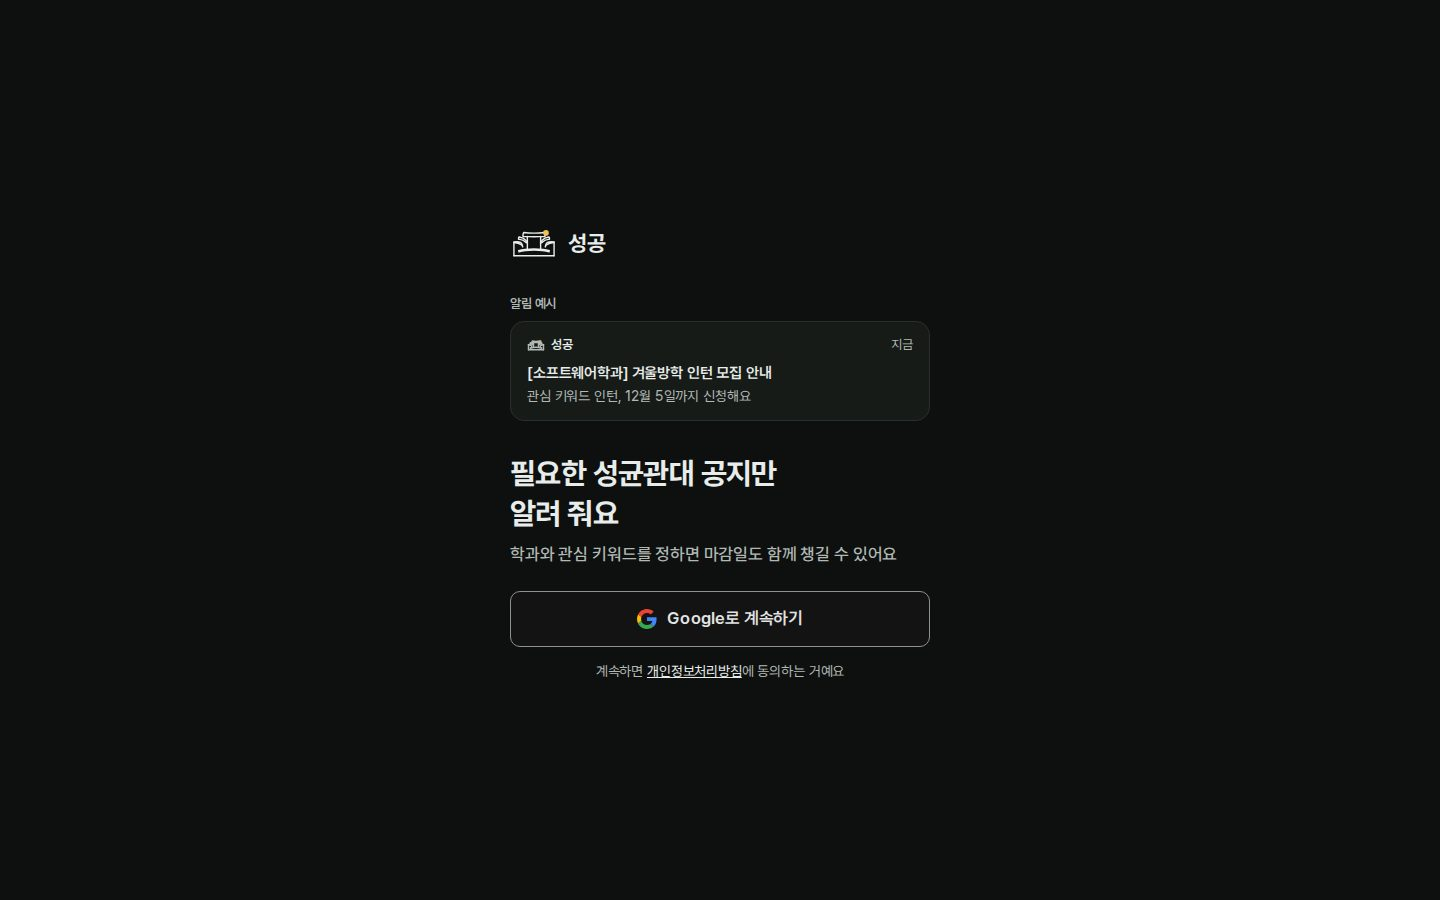
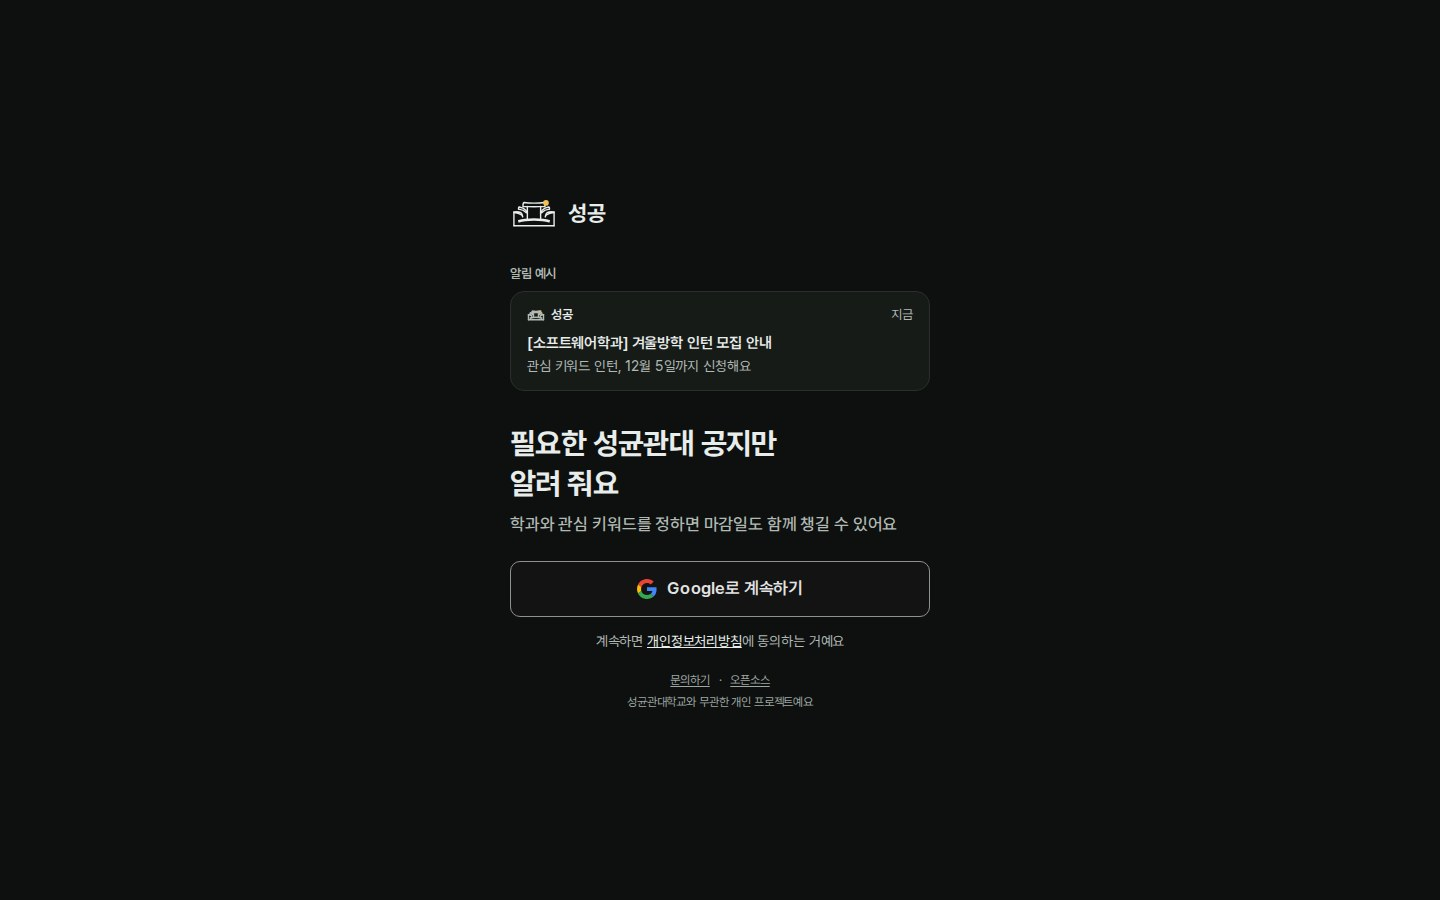
feat(web): 로그인 화면 하단에 성균관대와 무관한 개인 프로젝트 안내를 작게 두고, 처리방침에 보호책임자 연락처를 적는다
README의 로그인 캡처 4장과 설명을 현재 화면에 맞췄다. 독립 평가 8.1. 웹 단위 188, e2e 96 통과.

Changed region(s): [[0.3438, 0.2178, 0.625, 0.8089]]

diff --git a/web/src/login-screen.tsx b/web/src/login-screen.tsx
@@ -60,7 +60,8 @@ export function LoginScreen({ app }: { app: AppController }) {
           {mode === 'ios' ? <p className="m-0 text-center text-[14px] leading-[21px] text-ink-2">공유 버튼에서 <b className="font-semibold text-ink">‘홈 화면에 추가’</b>를 고르면<br />앱처럼 쓸 수 있어요</p> : null}
         </div>
         {/* 서비스 정보: 처리방침 말고 눈에 띄지 않게 한 줄. 문의는 공개 이슈로 받는다(개인 연락처를 적지 않는다). */}
-        <p className="m-0 mt-[20px] text-center text-[12px] leading-[18px] text-ink-3"><a className="inline-block px-[6px] py-[13px] -my-[13px] text-ink-3 underline underline-offset-2" href="https://github.com/aniseongu/skku-notice-platform/issues" target="_blank" rel="noopener noreferrer">문의하기</a> · <a className="inline-block px-[6px] py-[13px] -my-[13px] text-ink-3 underline underline-offset-2" href="https://github.com/aniseongu/skku-notice-platform" target="_blank" rel="noopener noreferrer">오픈소스</a></p>
+        <p className="m-0 mt-[20px] text-center text-[12px] leading-[18px] text-ink-3 min-[720px]:mt-[36px]"><a className="inline-block px-[6px] py-[13px] -my-[13px] text-ink-3 underline underline-offset-2" href="https://github.com/aniseongu/skku-notice-platform/issues" target="_blank" rel="noopener noreferrer">문의하기</a> · <a className="inline-block px-[6px] py-[13px] -my-[13px] text-ink-3 underline underline-offset-2" href="https://github.com/aniseongu/skku-notice-platform" target="_blank" rel="noopener noreferrer">오픈소스</a></p>
+        <p className="m-0 mt-[4px] text-center text-[12px] leading-[18px] text-ink-3">성균관대학교와 무관한 개인 프로젝트예요</p>
       </div>
     </div>
   </div>;

diff --git a/web/public/privacy.html b/web/public/privacy.html
@@ -98,7 +98,8 @@
   </ul>
 
   <h2 id="s6">6. 문의와 개인정보 보호책임자</h2>
-  <p>개인정보 보호책임자는 이 서비스를 운영하는 사람(GitHub 계정 aniseongu)입니다. 궁금한 점은 <a href="https://github.com/aniseongu/skku-notice-platform/issues" rel="noopener noreferrer" target="_blank">GitHub 이슈</a>로 남겨 주세요. 이슈는 공개되니 이메일 주소나 개인 정보는 적지 말아 주세요.</p>
+  <p>개인정보 보호책임자는 이 서비스를 운영하는 사람입니다. 연락처는 <a href="mailto:asw3521@g.skku.edu">asw3521@g.skku.edu</a>입니다. 궁금한 점은 이 주소나 <a href="https://github.com/aniseongu/skku-notice-platform/issues" rel="noopener noreferrer" target="_blank">GitHub 이슈</a>로 남겨 주세요. 이슈는 공개되니 이메일 주소나 개인 정보는 적지 말아 주세요.</p>
+  <p>이 서비스는 성균관대학교와 무관한 개인 프로젝트입니다.</p>
 
   <h2 id="s7">7. 바뀔 때</h2>
   <p>기능이 바뀌어 받는 정보가 달라지면 이 글을 먼저 고치고 위의 수정일을 바꿉니다.</p>

diff --git a/README.md b/README.md
@@ -20,7 +20,7 @@
 
 ### 1. 로그인
 
-Google 계정으로 로그인합니다.
+Google 계정으로 로그인합니다. 단추 바로 아래에서 개인정보처리방침을 로그인 전에도 읽을 수 있고, 휴대폰에서는 "앱으로 설치하기"(설치한 앱으로 열면 사라집니다), 맨 아래에는 "문의하기 · 오픈소스"와 "성균관대학교와 무관한 개인 프로젝트예요" 안내를 작게 둡니다. 모바일 캡처는 안드로이드에서 설치 단추가 보이는 모습입니다.
 
 | PC: 라이트 | PC: 다크 |
 |:---:|:---:|
@@ -92,7 +92,7 @@ Google 계정으로 로그인합니다.
 - **공지 상세**: 본문, 그림 속 글자(OCR로 읽은 글), 첨부 파일, 원문 열기를 한 화면에서 봅니다. 학교가 제목이나 본문을 고친 글에는 고친 날짜를 표시하고, 본문이 아직 없으면 원문으로 바로 갈 수 있게 안내합니다.
 - **알림**: 웹 푸시(VAPID)로 새 공지를 보냅니다. 관심 키워드가 맞는 공지는 소리로, 나머지는 조용히 보내고 학교가 고친 중요한 글은 한 번 더 알립니다.
 - **기기별 알림 관리**: 이 기기의 알림을 직접 켜고 끄며, 테스트 알림으로 도착하는 모습을 확인합니다. 등록된 기기 목록에서 기기 이름을 바꾸고 다른 기기를 지울 수 있습니다. 로그아웃하면 이 기기의 알림 등록을 해제하고 계정이 바뀌면 이전 계정의 기기 구독을 정리합니다. 키워드는 설정에서 바로 추가·삭제하고 계정에 순서대로 저장합니다.
-- **화면과 설치**: 라이트·다크·자동 모드, 앱 설치(PWA), 성대 공지 탭에 "모든 게시판"이나 "받는 게시판만" 보기를 고를 수 있습니다. 서버 연결에 실패하면 마지막 공지 스냅샷을 보여 줍니다. 휴대폰 로그인 화면의 Google 단추 아래에는 "앱으로 설치하기" 단추(안드로이드 등 브라우저가 설치 창을 줄 때)나 홈 화면 추가 안내(iOS Safari)가 보이고, 설치한 앱으로 열면 사라집니다. 로그인 화면 맨 아래에는 "문의하기 · 오픈소스" 링크를 조용히 둡니다.
+- **화면과 설치**: 라이트·다크·자동 모드, 앱 설치(PWA), 성대 공지 탭에 "모든 게시판"이나 "받는 게시판만" 보기를 고를 수 있습니다. 서버 연결에 실패하면 마지막 공지 스냅샷을 보여 줍니다. 휴대폰 로그인 화면의 Google 단추 아래에는 "앱으로 설치하기" 단추(안드로이드 등 브라우저가 설치 창을 줄 때)나 홈 화면 추가 안내(iOS Safari)가 보이고, 설치한 앱으로 열면 사라집니다. 로그인 화면 맨 아래에는 "문의하기 · 오픈소스" 링크와 "성균관대학교와 무관한 개인 프로젝트예요" 안내를 조용히 둡니다.
 - **내 AI 키**: 사용자가 직접 넣은 AI 키(Groq, Gemini)로 성대 공지와 인턴 공고가 나에게 맞는지 판정해, 맞는 공지를 소리로 알립니다(무료 모델만 씁니다). 키를 여러 개 넣으면 상한 대비 덜 쓴 키부터 번갈아 쓰고, 한 곳이 막히면 다른 곳으로 넘어갑니다. 상한은 업체마다 다르게 두었고, 이미 판정한 공지는 다시 호출하지 않습니다. 키는 암호화해 서버에만 보관하며 브라우저가 읽을 수 없고, 그 사용자 본인의 공지 처리에만 쓰입니다.
 - **판정 순서와 보관**: 새로 가입해 밀린 공지가 많아도 구독한 게시판의 마감이 가까운 공지부터 판정하고, 이미 마감된 공지에는 키를 쓰지 않습니다. 서버의 공지는 마감 30일 뒤(마감이 없으면 처음 본 지 90일 뒤) 지우며, 사용자가 저장한 공지는 지우지 않습니다.
 - **인턴십 졸업요건 확인**: 소프트웨어학과 원전공이나 학교 3품 인턴십을 선택한 사용자에게, 인턴 공고에 적힌 근무 기간·시간으로 학과 기준(전일제 28일 이상, 파트타임 160시간 이상)과 3품 기준(280시간)에 맞는지 판단해 이유와 근거를 보여 줍니다. 여러 직무를 뽑는 공고에서 소프트웨어와 관련 있어 보이는 직무가 있으면 그 이름을 말하고 가능으로 봅니다. 규칙 버전이 바뀌면 저장된 판정을 서버가 조금씩 새 규칙으로 다시 만듭니다. 실제 인정 여부는 학교와 학과에 확인해야 합니다.
@@ -100,7 +100,7 @@ Google 계정으로 로그인합니다.
 - **구글 캘린더(선택)**: 구글 로그인으로 허용하면 저장한 공지의 마감을 "성대 공지" 캘린더에 넣습니다. 한 번 연결하면 서버가 30분마다 저장한 공지를 확인해서 자동으로 맞춥니다(구글이 주는 장기 열쇠를 암호화해 보관하며, 연결을 끊거나 계정을 지우면 지워집니다). 이 앱이 만든 캘린더 안의 일정만 다루고 내 다른 캘린더는 읽지 못합니다.
 - **공지 요약**: AI 키가 있으면 공지 상세에 1~3문장 요약이 자동으로 만들어지고, 실패하면 다시 시도할 수 있습니다.
 - **프로필 설정**: 전공, 학년, 재학 상태, 병역과 관심 분야(주관식)를 바꿉니다. AI 판정과 인턴십 졸업요건 확인에만 쓰이며 이름, 학번, 연락처는 받지 않습니다(입학 연도만 받습니다).
-- **계정 삭제와 개인정보 처리방침**: 설정 맨 아래의 "계정 삭제"로 계정과 저장한 모든 정보를 바로 지울 수 있습니다. 어떤 정보를 어디에 쓰는지는 앱 안의 [개인정보 처리방침](web/public/privacy.html)(`PRIVACY.md`와 같은 내용)에 적었습니다. 로그인 화면의 "계속하면 개인정보처리방침에 동의하는 거예요"에서 로그인 전에도 읽을 수 있고, 브라우저 저장 공간(추적 쿠키 없음), 이용자의 권리와 행사 방법, 개인정보 보호책임자(운영자, 문의는 GitHub 이슈)도 담았습니다.
+- **계정 삭제와 개인정보 처리방침**: 설정 맨 아래의 "계정 삭제"로 계정과 저장한 모든 정보를 바로 지울 수 있습니다. 어떤 정보를 어디에 쓰는지는 앱 안의 [개인정보 처리방침](web/public/privacy.html)(`PRIVACY.md`와 같은 내용)에 적었습니다. 로그인 화면의 "계속하면 개인정보처리방침에 동의하는 거예요"에서 로그인 전에도 읽을 수 있고, 브라우저 저장 공간(추적 쿠키 없음), 이용자의 권리와 행사 방법, 개인정보 보호책임자(운영자, 연락처는 처리방침에 적은 이메일)도 담았습니다.
 - 구독, 키워드, 저장, 읽음은 계정별로 DB에 저장하고 행 수준 보안(RLS)으로 사용자 간 접근을 막습니다. 저장·읽음의 화면 동기화는 계속 검증하고 있습니다.
 
 ## 시스템 아키텍처

diff --git a/PRIVACY.md b/PRIVACY.md
@@ -12,4 +12,5 @@
 - 설정 맨 아래의 "계정 삭제"로 계정과 모든 정보를 바로 지울 수 있습니다.
 - 로그인 상태와 화면 설정은 브라우저 저장 공간(localStorage)에, 앱을 빨리 여는 파일은 서비스 워커 캐시에 남습니다. 광고·분석·추적용 쿠키나 도구는 쓰지 않으며, 브라우저의 사이트 데이터 삭제로 지울 수 있습니다.
 - 내 정보는 설정 화면에서 직접 보고, 고치고, 지울 수 있습니다. 설정에서 할 수 없는 요청은 아래 문의로 받습니다.
-- 개인정보 보호책임자는 이 서비스를 운영하는 사람(GitHub 계정 aniseongu)이고, 문의는 [GitHub 이슈](https://github.com/aniseongu/skku-notice-platform/issues)로 받습니다. 이슈는 공개되므로 이메일이나 개인 정보는 적지 말아 주세요.
+- 개인정보 보호책임자는 이 서비스를 운영하는 사람이고, 연락처는 asw3521@g.skku.edu입니다. 문의는 이 주소나 [GitHub 이슈](https://github.com/aniseongu/skku-notice-platform/issues)로 받습니다. 이슈는 공개되므로 이메일이나 개인 정보는 적지 말아 주세요.
+- 이 서비스는 성균관대학교와 무관한 개인 프로젝트입니다.
